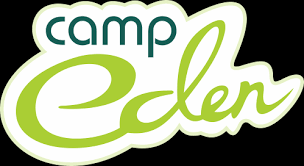
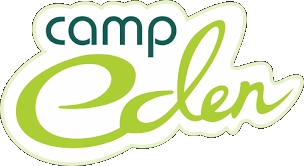
gp

diff --git a/Home.html b/Home.html
@@ -8,7 +8,7 @@
   <title>J-Life Camp Eden - Home</title>
 </head>
 <body>
-  <h1>Welcome to Camp Eden!</h1>
+  <img src="camp eden.png" alt="camp eden j-life jlife">
   <div class="topnav" id="mainTopnav">
     <a href="#Home">Home</a>
     <a href="#WhatWeOffer">What We Offer</a>
@@ -16,8 +16,6 @@
     <a href="#ContactUs">Contact Us</a>
     <a href="#Blog">Blog</a>
   </div>
-  <img src="camp eden.png" alt="camp eden j-life jlife">
-  <img src="jlifesa.png" alt="camp eden j-life jlife south africa">
   <h3>Where we Are:</h3>
   <p> (google maps widget)</p>
   <h3>About Camp Eden:</h3>
@@ -25,5 +23,6 @@
   <p>(more about Camp Eden)</p>
   <q cite="https://www.biblegateway.com/passage/?search=john+10%3A10+&version=ESV"> ... I came that they [you!] may have life and have it abundantly. </q>
   <p>(Jesus, John 10:10)</p>
+  <img src="jlifesa.png" alt="camp eden j-life jlife south africa">
 </body>
 </html>

diff --git a/style.css b/style.css
@@ -1,3 +1,7 @@
+body{
+  background-color: #B0B0B0;
+}
+
 h1{
   background-color: #808080;
   color: #00FF80;
